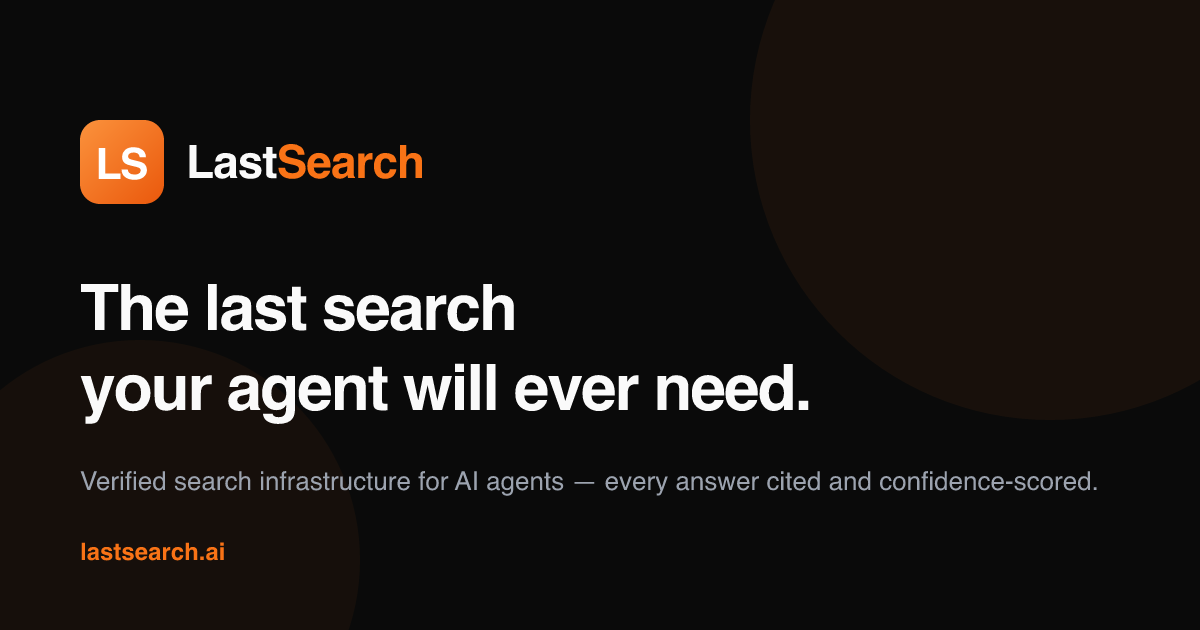
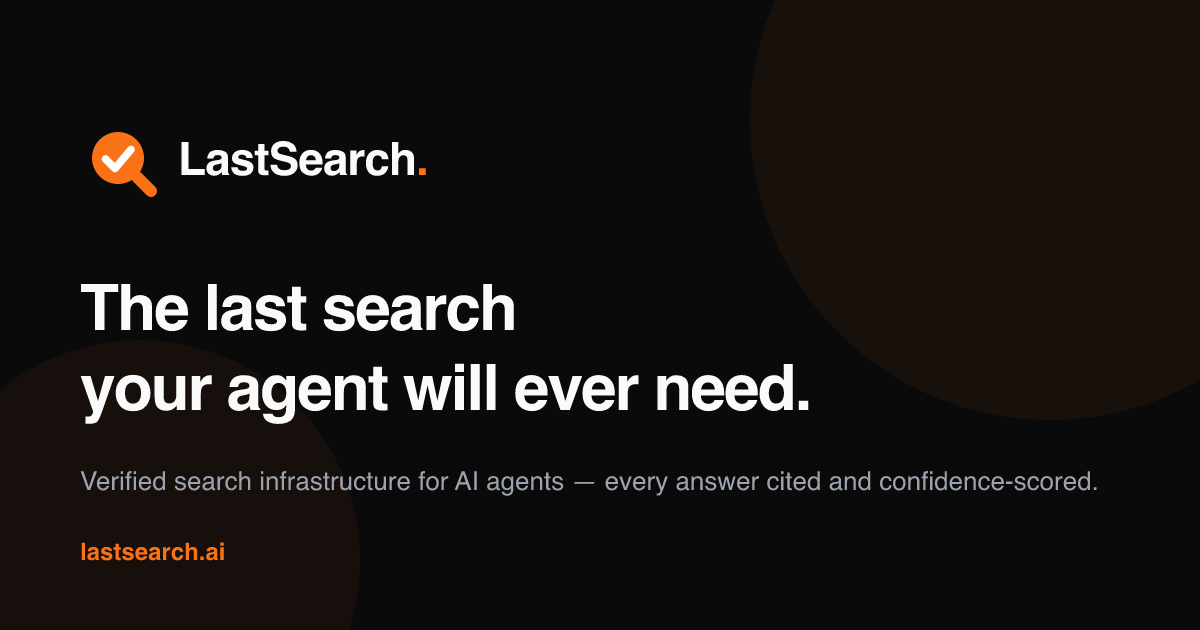
Brand v3: the mark, reduced (#302)
Flat solid magnifier, checkmark carved in negative space, wordmark
"LastSearch." with an orange full stop — the last search, period.
Favicon/avatar/OG/header all updated; no gradients, single color, reads
at 16px.

🤖 Generated with [Claude Code](https://claude.com/claude-code)

Changed region(s): [[0.0617, 0.181, 0.37, 0.3317]]

diff --git a/src/components/LastSearchLogo.tsx b/src/components/LastSearchLogo.tsx
@@ -2,33 +2,19 @@ interface LastSearchLogoProps {
   className?: string;
 }
 
-// The LastSearch mark: an "LS" monogram on a rounded orange tile.
+// The LastSearch mark: a solid magnifier whose lens carries the check in
+// negative space — verified search, one glyph, one color.
 export function LastSearchLogo({ className = "w-4 h-4" }: LastSearchLogoProps) {
   return (
     <svg
       xmlns="http://www.w3.org/2000/svg"
       viewBox="0 0 40 40"
       className={className}
+      fill="none"
     >
-      <defs>
-        <linearGradient id="ls-tile-grad" x1="0" y1="0" x2="1" y2="1">
-          <stop offset="0" stopColor="#FB923C" />
-          <stop offset="1" stopColor="#EA580C" />
-        </linearGradient>
-      </defs>
-      <rect width="40" height="40" rx="10" fill="url(#ls-tile-grad)" />
-      <text
-        x="20"
-        y="28"
-        textAnchor="middle"
-        fontFamily="-apple-system, 'Helvetica Neue', Helvetica, Arial, sans-serif"
-        fontSize="21"
-        fontWeight="800"
-        letterSpacing="-1"
-        fill="#FFFFFF"
-      >
-        LS
-      </text>
+      <circle cx="18" cy="18" r="14" fill="#F97316" />
+      <line x1="28.6" y1="28.6" x2="36" y2="36" stroke="#F97316" strokeWidth="6.4" strokeLinecap="round" />
+      <path d="M11.2 18.6 L16.4 23.8 L25.2 13.4" stroke="#FFFFFF" strokeWidth="4.2" strokeLinecap="round" strokeLinejoin="round" />
     </svg>
   );
 }
